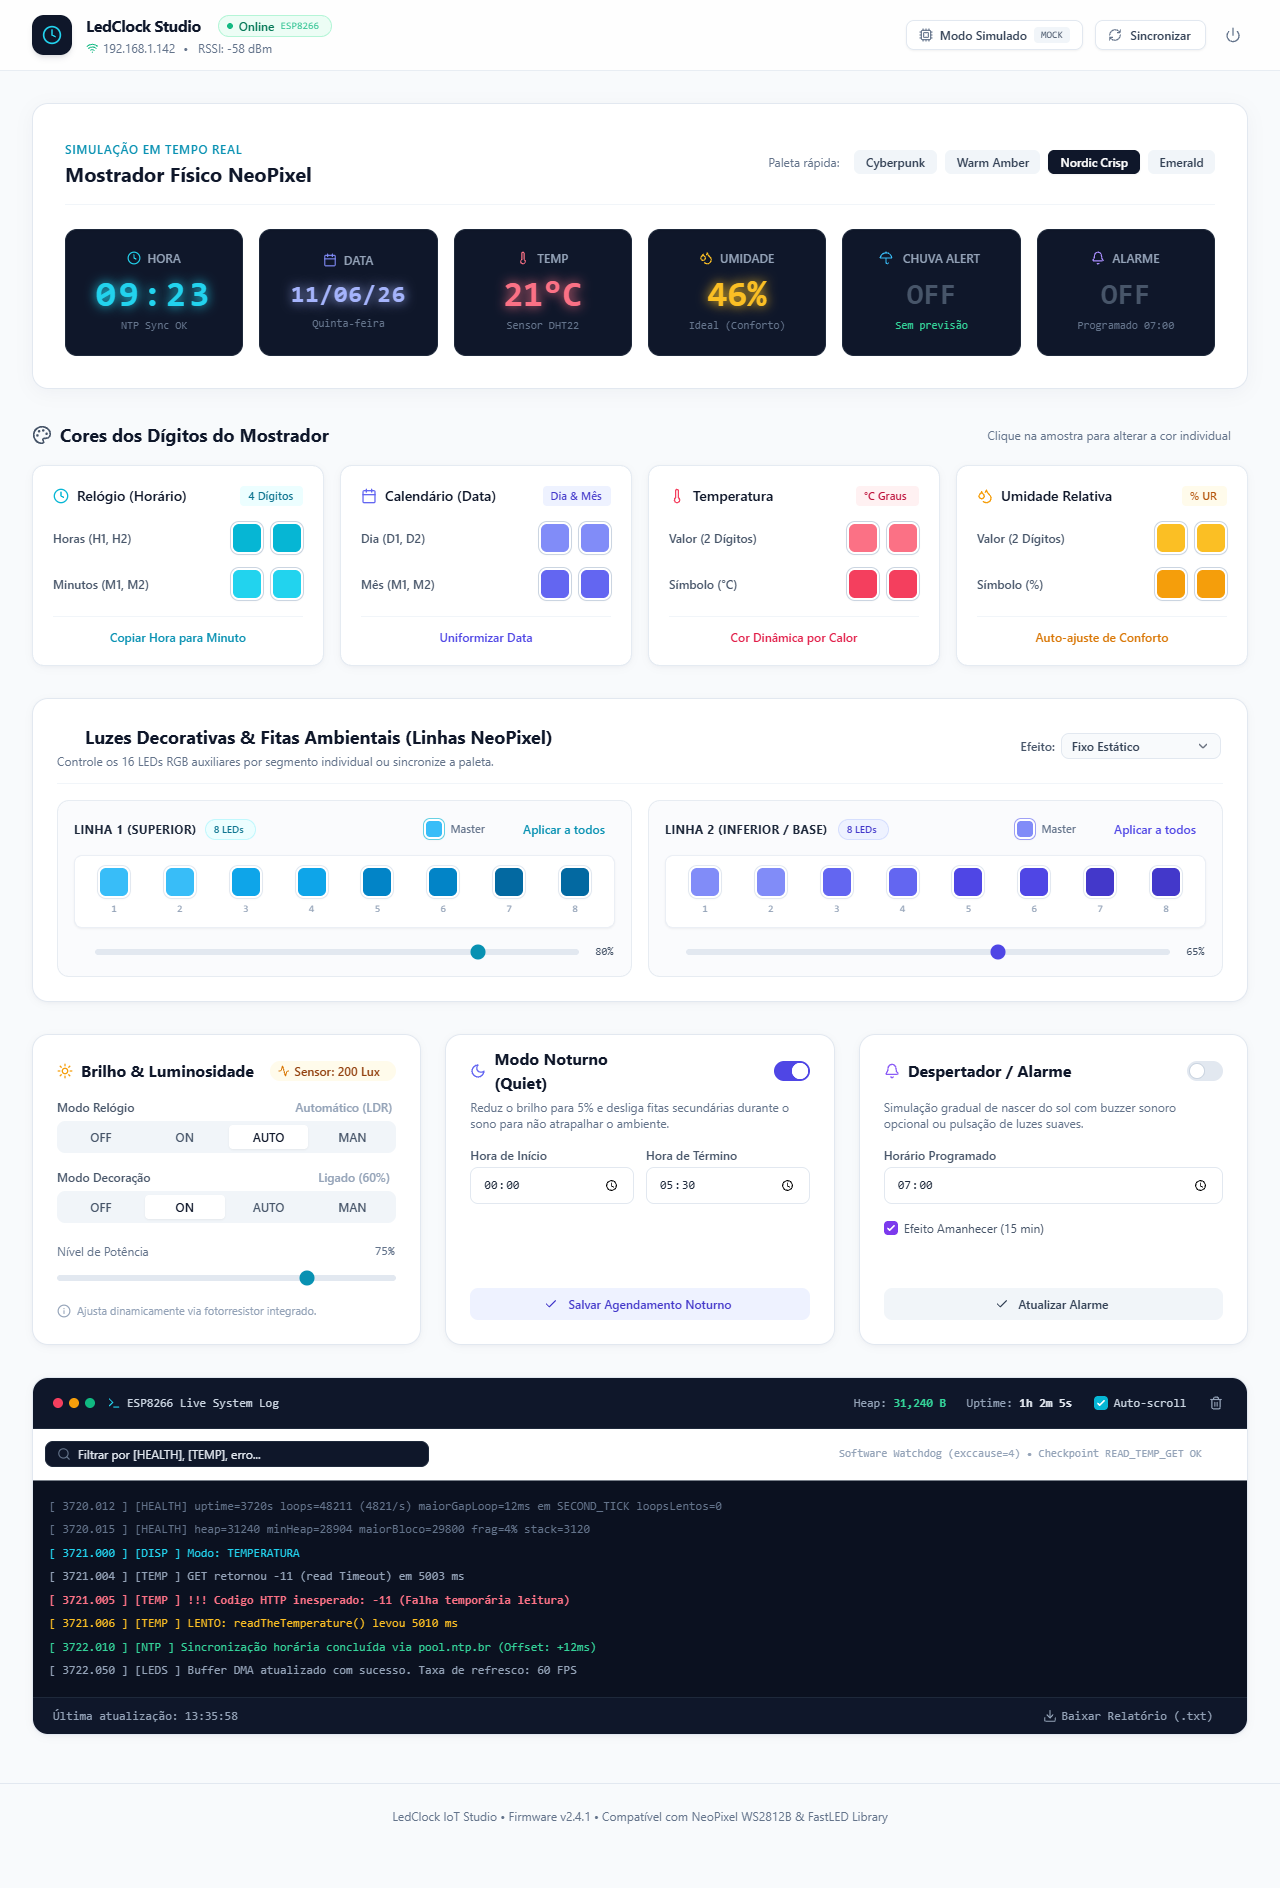
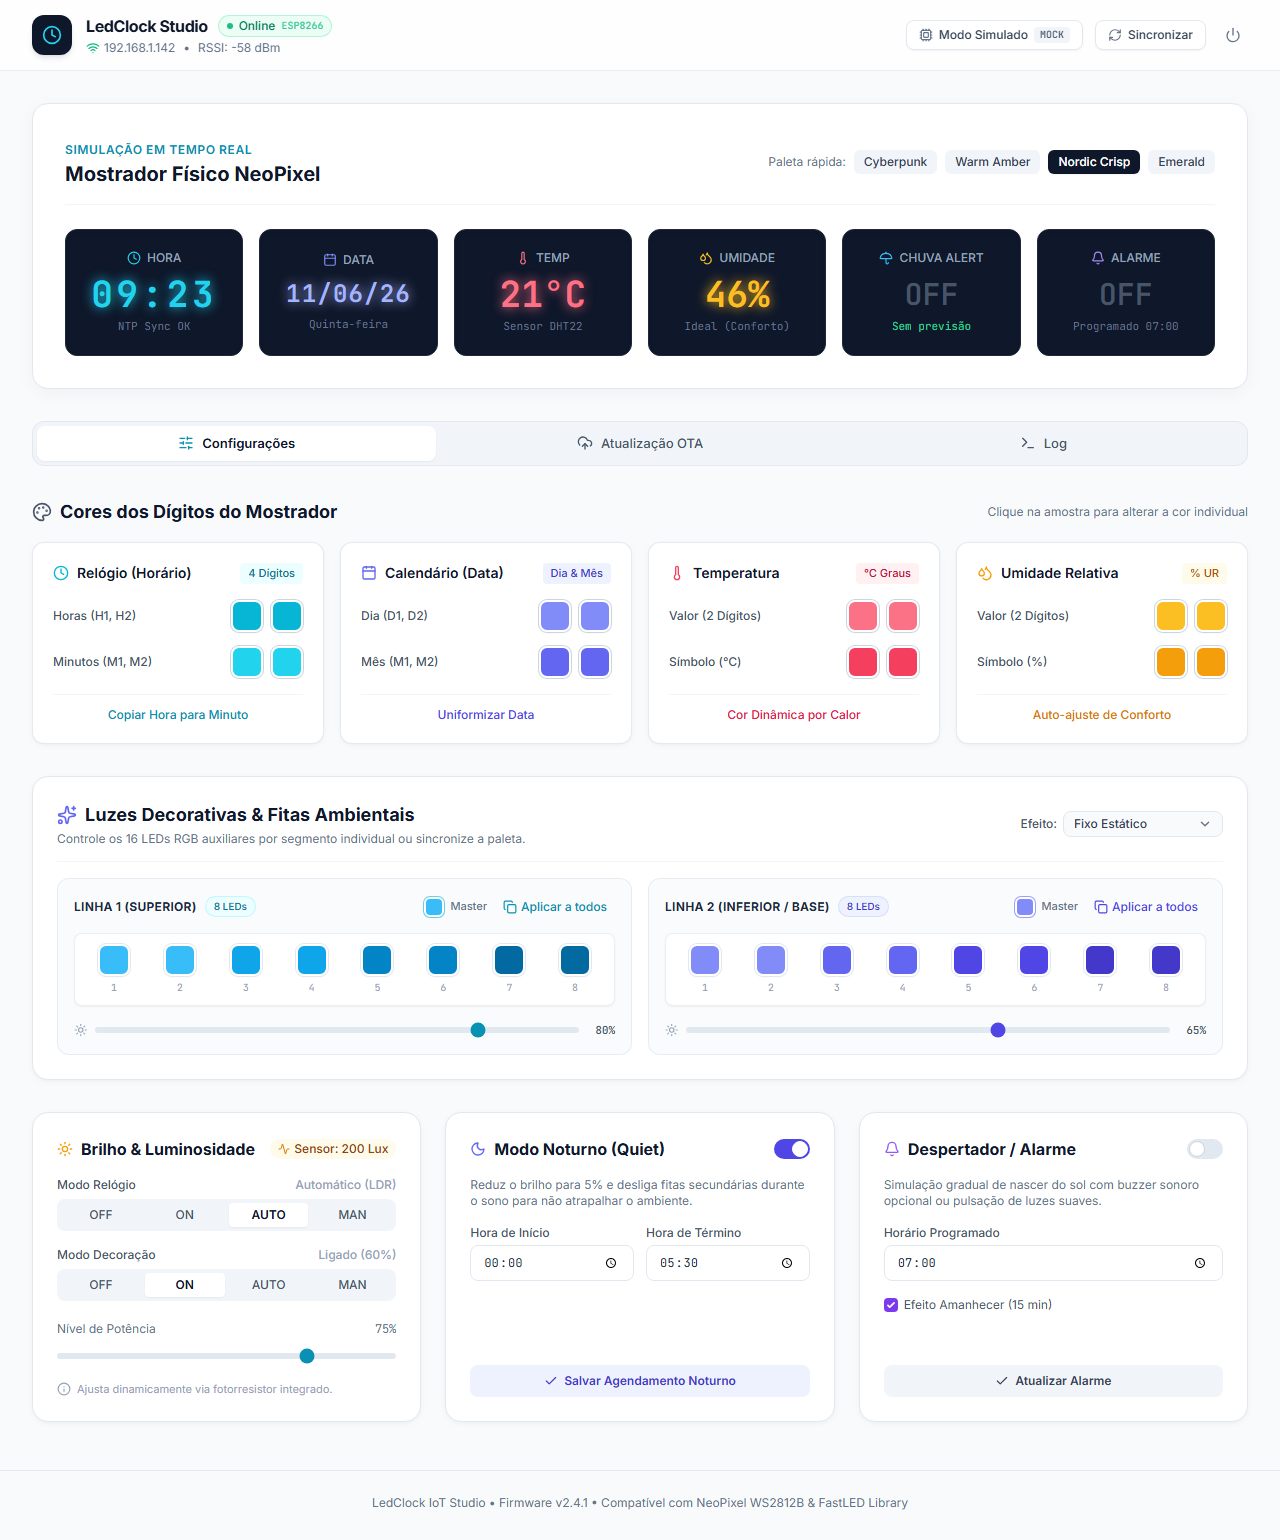
Interface organizada em abas: Configurações, Atualização OTA e Log.
O Mostrador fica fixo acima das abas. Design (code.html e screen.png) atualizado com a mesma estrutura e uma seção de OTA.

diff --git a/design/code.html b/design/code.html
@@ -197,6 +197,21 @@
 </div>
 </section>
 <!-- END: LivePreviewSection -->
+<!-- BEGIN: TabNavigation -->
+<nav class="flex gap-1 p-1 bg-nordic-100 border border-nordic-200 rounded-xl overflow-x-auto -mb-4" role="tablist" aria-label="Seções do painel" data-purpose="tab-navigation">
+<button class="tab-btn flex-1 inline-flex items-center justify-center gap-2 px-4 py-2 rounded-lg text-[13px] whitespace-nowrap transition bg-white text-nordic-900 font-semibold shadow-sm" role="tab" aria-selected="true" data-tab="config">
+<i data-lucide="sliders-horizontal" class="w-4 h-4 text-cyan-600"></i> Configurações
+</button>
+<button class="tab-btn flex-1 inline-flex items-center justify-center gap-2 px-4 py-2 rounded-lg text-[13px] whitespace-nowrap transition text-nordic-600 font-medium hover:bg-white/60" role="tab" aria-selected="false" data-tab="ota">
+<i data-lucide="cloud-upload" class="w-4 h-4"></i> Atualização OTA
+</button>
+<button class="tab-btn flex-1 inline-flex items-center justify-center gap-2 px-4 py-2 rounded-lg text-[13px] whitespace-nowrap transition text-nordic-600 font-medium hover:bg-white/60" role="tab" aria-selected="false" data-tab="log">
+<i data-lucide="terminal" class="w-4 h-4"></i> Log
+</button>
+</nav>
+<!-- END: TabNavigation -->
+<!-- BEGIN: TabPanel Configurações -->
+<div class="tab-panel space-y-8" data-panel="config" role="tabpanel">
 <!-- BEGIN: DigitColorsSection -->
 <section class="space-y-4" data-purpose="digit-color-customization">
 <div class="flex items-center justify-between">
@@ -392,7 +407,7 @@
   <div>
     <h3 class="text-lg font-bold text-nordic-900 flex items-center gap-2">
       <i class="w-5 h-5 text-indigo-500" data-lucide="sparkles"></i>
-      Luzes Decorativas &amp; Fitas Ambientais (Linhas NeoPixel)
+      Luzes Decorativas &amp; Fitas Ambientais
     </h3>
     <p class="text-xs text-nordic-500 mt-0.5">Controle os 16 LEDs RGB auxiliares por segmento individual ou sincronize a paleta.</p>
   </div>
@@ -676,6 +691,57 @@
 </div>
 </section>
 <!-- END: HardwareComfortGrid -->
+</div>
+<!-- END: TabPanel Configurações -->
+<!-- BEGIN: TabPanel Atualização OTA -->
+<div class="tab-panel space-y-8 hidden" data-panel="ota" role="tabpanel">
+<section class="bg-white rounded-2xl border border-nordic-200 shadow-soft p-5 md:p-6" data-purpose="ota-update">
+<div class="flex flex-wrap items-center justify-between gap-3 mb-5 pb-3.5 border-b border-nordic-100">
+<div>
+<h3 class="text-lg font-bold text-nordic-900 flex items-center gap-2"><i data-lucide="cloud-upload" class="w-5 h-5 text-cyan-600"></i> Atualização OTA</h3>
+<p class="text-xs text-nordic-500 mt-0.5">Grave um novo firmware ou uma nova interface pela rede, sem cabo USB.</p>
+</div>
+<div class="flex flex-wrap gap-x-5 gap-y-1.5 text-xs text-nordic-500">
+<span>Firmware atual <strong class="font-mono font-semibold text-nordic-800 ml-1">Nov 25 2026 10:42</strong></span>
+<span>Tamanho <strong class="font-mono font-semibold text-nordic-800 ml-1">412 KB</strong></span>
+<span>Interface em uso <strong class="font-mono font-semibold text-nordic-800 ml-1">38 KB</strong></span>
+</div>
+</div>
+<div class="grid grid-cols-1 md:grid-cols-5 gap-6">
+<div class="md:col-span-3 space-y-4">
+<div>
+<div class="flex justify-between text-xs font-medium text-nordic-600 mb-1.5"><span>O que atualizar</span><span class="text-nordic-400">Máx. 1.020 KB</span></div>
+<div class="grid grid-cols-2 gap-1 p-1 bg-nordic-100 rounded-lg">
+<button class="py-1 text-xs rounded bg-white text-nordic-900 font-semibold shadow-sm">Firmware</button>
+<button class="py-1 text-xs rounded text-nordic-600 font-medium hover:bg-white transition">Interface</button>
+</div>
+</div>
+<label class="flex flex-col items-center justify-center gap-1 min-h-[132px] p-5 text-center text-[13px] text-nordic-600 bg-nordic-50 border-2 border-dashed border-nordic-300 rounded-xl cursor-pointer hover:border-cyan-500 hover:bg-cyan-50 transition">
+<i data-lucide="file-code-2" class="w-7 h-7 text-cyan-600"></i>
+<span>Escolha ou arraste o <strong>firmware.bin</strong></span>
+<span class="text-xs text-nordic-500">Gerado em .pio/build/esp12e/</span>
+</label>
+</div>
+<div class="md:col-span-2 flex flex-col justify-end gap-4">
+<div>
+<label class="block text-xs font-medium text-nordic-600 mb-1">Senha OTA</label>
+<input class="w-full px-3 py-2 font-mono text-xs bg-white border border-nordic-200 rounded-lg focus:ring-1 focus:ring-indigo-500 focus:border-indigo-500" placeholder="Senha definida no firmware" type="password">
+</div>
+<div>
+<div class="flex justify-between text-xs font-medium text-nordic-600 mb-1.5"><span>Enviando</span><span class="font-mono">64%</span></div>
+<div class="h-2 rounded-full bg-nordic-100 overflow-hidden"><div class="h-full w-[64%] bg-cyan-500 rounded-full"></div></div>
+</div>
+<button class="w-full flex items-center justify-center gap-1.5 py-2.5 text-[13px] font-semibold text-white bg-nordic-900 hover:bg-nordic-700 rounded-lg transition">
+<i data-lucide="upload" class="w-4 h-4"></i> Enviar atualização
+</button>
+</div>
+</div>
+<div class="flex items-center gap-1.5 mt-4 text-[11px] text-nordic-400"><i data-lucide="info" class="w-3.5 h-3.5"></i> Durante a gravação o mostrador apaga e a decoração acende conforme o progresso. Ao terminar, o relógio reinicia sozinho.</div>
+</section>
+</div>
+<!-- END: TabPanel Atualização OTA -->
+<!-- BEGIN: TabPanel Log -->
+<div class="tab-panel space-y-8 hidden" data-panel="log" role="tabpanel">
 <!-- BEGIN: DeviceDiagnosticConsole -->
 <section class="bg-white rounded-2xl border border-nordic-200 shadow-soft overflow-hidden" data-purpose="diagnostic-terminal">
 <!-- Top Console Bar -->
@@ -715,7 +781,7 @@
         </div>
 </div>
 <!-- Log Entries Container -->
-<div class="bg-[#0b1120] p-4 font-mono text-xs text-nordic-300 leading-relaxed max-h-56 overflow-y-auto space-y-1">
+<div class="bg-[#0b1120] p-4 font-mono text-xs text-nordic-300 leading-relaxed h-[60vh] min-h-64 max-h-[40rem] overflow-y-auto space-y-1">
 <p class="text-nordic-500">[ 3720.012 ] [HEALTH] uptime=3720s loops=48211 (4821/s) maiorGapLoop=12ms em SECOND_TICK loopsLentos=0</p>
 <p class="text-nordic-500">[ 3720.015 ] [HEALTH] heap=31240 minHeap=28904 maiorBloco=29800 frag=4% stack=3120</p>
 <p class="text-cyan-400">[ 3721.000 ] [DISP  ] Modo: TEMPERATURA</p>
@@ -734,6 +800,8 @@
 </div>
 </section>
 <!-- END: DeviceDiagnosticConsole -->
+</div>
+<!-- END: TabPanel Log -->
 </main>
 <!-- BEGIN: PageFooter -->
 <footer class="max-w-7xl mx-auto px-4 sm:px-6 lg:px-8 mt-12 pt-6 border-t border-nordic-200 text-center text-xs text-nordic-500">
@@ -744,6 +812,27 @@
 <script data-purpose="lucide-initialization">
     // Inicialização dos ícones Feather/Lucide
     lucide.createIcons();
+  </script>
+<script data-purpose="tab-switching">
+    // Alterna as abas (Configurações / Atualização OTA / Log); o Mostrador fica sempre visível acima delas
+    var ON  = ['bg-white', 'text-nordic-900', 'font-semibold', 'shadow-sm'];
+    var OFF = ['text-nordic-600', 'font-medium', 'hover:bg-white/60'];
+    document.querySelectorAll('.tab-btn').forEach(function (btn) {
+      btn.addEventListener('click', function () {
+        document.querySelectorAll('.tab-btn').forEach(function (b) {
+          var active = b === btn;
+          b.classList.remove.apply(b.classList, active ? OFF : ON);
+          b.classList.add.apply(b.classList, active ? ON : OFF);
+          b.setAttribute('aria-selected', active);
+          b.querySelector('svg').classList.toggle('text-cyan-600', active);
+        });
+        document.querySelectorAll('.tab-panel').forEach(function (p) {
+          p.classList.toggle('hidden', p.dataset.panel !== btn.dataset.tab);
+        });
+      });
+    });
+    var initial = document.querySelector('.tab-btn[data-tab="' + location.hash.slice(1) + '"]');
+    if (initial) { initial.click(); }
   </script>
 
 

diff --git a/data/index.html b/data/index.html
@@ -92,6 +92,25 @@
         </div>
     </section>
 
+    <!-- ── Abas ────────────────────────────────────────────── -->
+    <nav class="tabs" role="tablist" aria-label="Seções do painel">
+        <button type="button" class="tab-btn active" role="tab" id="tabBtnConfig" data-tab="config"
+                aria-controls="tabConfig" aria-selected="true">
+            <i class="bi bi-sliders"></i>Configurações
+        </button>
+        <button type="button" class="tab-btn" role="tab" id="tabBtnOta" data-tab="ota"
+                aria-controls="tabOta" aria-selected="false" tabindex="-1">
+            <i class="bi bi-cloud-arrow-up"></i>Atualização OTA
+        </button>
+        <button type="button" class="tab-btn" role="tab" id="tabBtnLog" data-tab="log"
+                aria-controls="tabLog" aria-selected="false" tabindex="-1">
+            <i class="bi bi-terminal"></i>Log
+        </button>
+    </nav>
+
+    <!-- ═══════════════════════════════ Aba: Configurações ══ -->
+    <div class="tab-panel" id="tabConfig" role="tabpanel" aria-labelledby="tabBtnConfig">
+
     <!-- ── Cores dos dígitos ───────────────────────────────── -->
     <section class="stack">
         <div class="section-head">
@@ -214,7 +233,7 @@
     <section class="panel">
         <div class="panel-head">
             <div>
-                <h3 class="section-title"><i class="bi bi-stars c-indigo-d"></i>Luzes Decorativas (Linhas NeoPixel)</h3>
+                <h3 class="section-title"><i class="bi bi-stars c-indigo-d"></i>Luzes Decorativas</h3>
                 <p class="muted-sm mt-1">Controle os 14 LEDs auxiliares individualmente ou aplique uma cor a toda a linha.</p>
             </div>
         </div>
@@ -333,7 +352,7 @@
                     </div>
                 </div>
             </div>
-            <div class="hint"><i class="bi bi-info-circle"></i>AUTO ajusta o brilho pelo fotorresistor (LDR).</div>
+            <div class="hint"><i class="bi bi-info-circle"></i>AUTO ajusta o brilho pelo sensor de luminosidade.</div>
         </div>
 
         <!-- Modo Noturno -->
@@ -384,6 +403,11 @@
             </button>
         </div>
     </section>
+
+    </div>
+
+    <!-- ═══════════════════════════════ Aba: Atualização OTA ══ -->
+    <div class="tab-panel" id="tabOta" role="tabpanel" aria-labelledby="tabBtnOta" hidden>
 
     <!-- ── Atualização OTA ─────────────────────────────────── -->
     <section class="panel">
@@ -438,6 +462,11 @@
         <div class="hint mt-3"><i class="bi bi-info-circle"></i>Durante a gravação o mostrador apaga e a decoração acende conforme o progresso. Ao terminar, o relógio reinicia sozinho.</div>
     </section>
 
+    </div>
+
+    <!-- ═══════════════════════════════════════ Aba: Log ══ -->
+    <div class="tab-panel" id="tabLog" role="tabpanel" aria-labelledby="tabBtnLog" hidden>
+
     <!-- ── Log do dispositivo ──────────────────────────────── -->
     <section class="console">
         <div class="console-bar">
@@ -481,6 +510,7 @@
             </button>
         </div>
     </section>
+    </div>
 </main>
 
 <footer class="wrap app-footer">

diff --git a/data/app.js b/data/app.js
@@ -123,7 +123,7 @@ function applyDataMock() {
 /* ── UI state helpers ────────────────────────────────── */
 function setControlsEnabled(enabled) {
 	document.getElementById('mainContainer')
-		.querySelectorAll('input:not(.log-control), button:not(.log-control)')
+		.querySelectorAll('input:not(.log-control), button:not(.log-control):not(.tab-btn)')
 		.forEach(function (el) { el.disabled = !enabled; });
 }
 
@@ -769,11 +769,53 @@ function bindOtaEvents() {
 	});
 }
 
+/* ── Abas ────────────────────────────────────────────── */
+var TAB_NAMES = ['config', 'ota', 'log'];
+
+function showTab(name, focus) {
+	if (TAB_NAMES.indexOf(name) < 0) { name = 'config'; }
+	document.querySelectorAll('.tab-btn').forEach(function (btn) {
+		var active = btn.dataset.tab === name;
+		btn.classList.toggle('active', active);
+		btn.setAttribute('aria-selected', active ? 'true' : 'false');
+		btn.tabIndex = active ? 0 : -1;
+		document.getElementById(btn.getAttribute('aria-controls')).hidden = !active;
+		if (active && focus) { btn.focus(); }
+	});
+	if (name === 'log' && document.getElementById('logAutoScroll').checked) {
+		var view = document.getElementById('logView');
+		view.scrollTop = view.scrollHeight;
+	}
+	if (history.replaceState) {
+		history.replaceState(null, '', name === 'config' ? window.location.pathname + window.location.search : '#' + name);
+	}
+}
+
+function bindTabEvents() {
+	var buttons = Array.prototype.slice.call(document.querySelectorAll('.tab-btn'));
+	buttons.forEach(function (btn, i) {
+		btn.addEventListener('click', function () { showTab(btn.dataset.tab); });
+		btn.addEventListener('keydown', function (e) {
+			var next = null;
+			if (e.key === 'ArrowRight') { next = buttons[(i + 1) % buttons.length]; }
+			if (e.key === 'ArrowLeft')  { next = buttons[(i - 1 + buttons.length) % buttons.length]; }
+			if (e.key === 'Home')       { next = buttons[0]; }
+			if (e.key === 'End')        { next = buttons[buttons.length - 1]; }
+			if (next) {
+				e.preventDefault();
+				showTab(next.dataset.tab, true);
+			}
+		});
+	});
+	showTab(window.location.hash.replace('#', ''));
+}
+
 /* ── Entry point ─────────────────────────────────────── */
 function startup() {
 	document.getElementById('deviceHost').textContent = window.location.host || 'arquivo local';
 	setControlsEnabled(false);
 	bindEvents();
+	bindTabEvents();
 	bindLogEvents();
 	bindOtaEvents();
 	renderOtaTarget();

diff --git a/data/style.css b/data/style.css
@@ -235,6 +235,41 @@ button:disabled, input:disabled { cursor: not-allowed; }
 .section-title > .bi { color: var(--n600); font-size: 18px; }
 .section-title > .bi.c-indigo-d { color: var(--indigo-500); }
 
+/* ── Abas ───────────────────────────────────────────── */
+.tabs {
+	display: flex;
+	gap: 4px;
+	padding: 4px;
+	background: var(--n100);
+	border: 1px solid var(--n200);
+	border-radius: 12px;
+	overflow-x: auto;
+	margin-bottom: -1rem;
+}
+.tab-btn {
+	flex: 1 0 auto;
+	display: inline-flex;
+	align-items: center;
+	justify-content: center;
+	gap: 8px;
+	padding: 8px 16px;
+	font-size: 13px;
+	font-weight: 500;
+	color: var(--n600);
+	background: transparent;
+	border: none;
+	border-radius: 8px;
+	white-space: nowrap;
+	transition: background 0.15s, color 0.15s;
+}
+.tab-btn:hover { background: rgba(255, 255, 255, 0.6); color: var(--n800); }
+.tab-btn.active { background: #fff; color: var(--n900); font-weight: 600; box-shadow: 0 1px 3px rgba(15, 23, 42, 0.1); }
+.tab-btn.active .bi { color: var(--cyan-600); }
+.tab-btn:focus-visible { outline: 2px solid var(--cyan-500); outline-offset: 1px; }
+
+.tab-panel { display: flex; flex-direction: column; gap: 2rem; }
+.tab-panel[hidden] { display: none; }
+
 /* ── Mostrador (cards escuros) ──────────────────────── */
 .display-grid {
 	display: grid;
@@ -695,7 +730,7 @@ input[type="color"].swatch-ring-indigo { box-shadow: 0 0 0 1px rgba(99, 102, 241
 	font-size: 12px;
 	line-height: 1.65;
 	color: var(--n300);
-	height: 16rem;
+	height: clamp(16rem, 60vh, 40rem);
 	overflow-y: auto;
 }
 .log-line { white-space: pre-wrap; word-break: break-word; }
